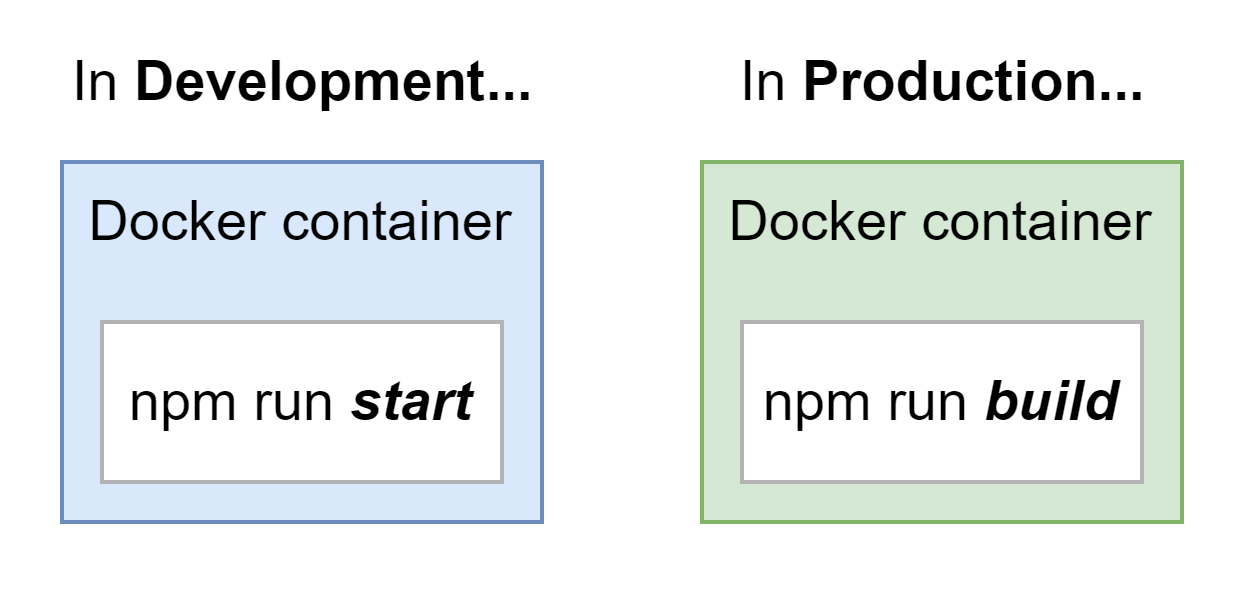
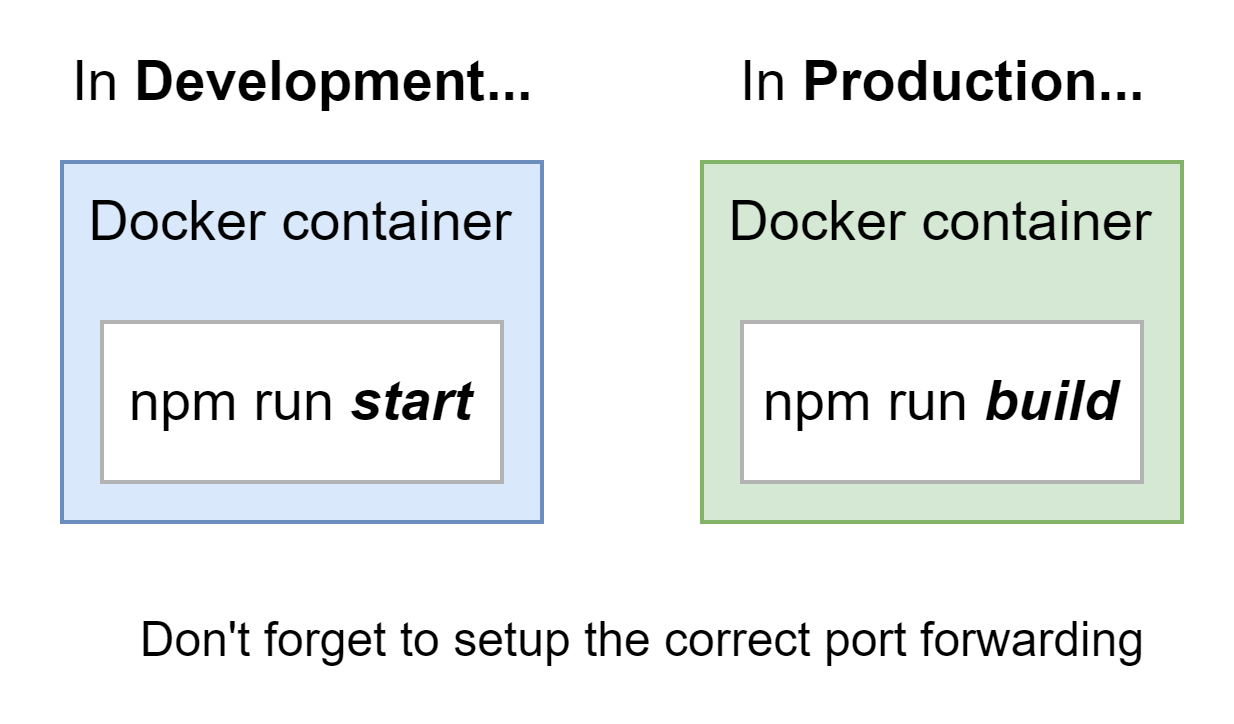
Docker volumes

diff --git a/docker/exercices/section_6/src/App.js b/docker/exercices/section_6/src/App.js
@@ -7,7 +7,8 @@ function App() {
       <header className="App-header">
         <img src={logo} className="App-logo" alt="logo" />
         <p>
-          Edit <code>src/App.js</code> and save to reload.
+          Edit <code>src/App.js</code> and save to reload.<br>
+          This is a small change</br>
         </p>
         <a
           className="App-link"
@@ -15,7 +16,7 @@ function App() {
           target="_blank"
           rel="noopener noreferrer"
         >
-          Learn React
+          Learn React           
         </a>
       </header>
     </div>

diff --git a/docker/3.Docker_workflow_and_volumes.md b/docker/3.Docker_workflow_and_volumes.md
@@ -90,18 +90,104 @@ Like _Spring_, you can create "profiles".
 * Production: `Dockerfile`
 
 
-### Dockerfile
+### Development with Dockerfile (no volumes, standalone container)
 
-Checkout the ["dockerfile.dev section_6"](./exercices/section_6/Dockerfile.dev)
+* Checkout the ["dockerfile.dev section_6"](./exercices/section_6/Dockerfile.dev)
+* Docker steps
 
+```bash
+# To build the DEV docker file: 
+docker build -t guihomediaz/section_6_frontend -f Dockerfile.dev .
 
-### Build
-
-To build the DEV docker file: 
-
+# run the application
+# (i) forward container port 3000 to local 4000
+docker run -it -p 4000:3000 guihomediaz/section_6_frontend
 ```
-docker build -t guihomediaz/
-```
+
+:fire::fire::fire: WARNING WARNING :fire::fire::fire:
+
+This implementation will NOT forward development changes inside the container!!!  
+* There is no volume attached
+* you must BUILD EVERY TIME to push your changes
+
+
+# Docker volumes
+
+## Definition
+
+A Docker _volume_ is a placeholder inside the docker container [~ Linux mount point]. 
+* From the container point of view: a _volume_ is a **_mapping_ from a mount point _inside_ the container** (ex: `/opt/app/resources`) **to a folder _outside_ the container** 
+* As an outsider, the _volume_ is a set of files that are shared with the container
+
+
+Volumes are very useful to:
+* separate configuration files
+* speed up application development
+* use share drives 
+
+## Impact on development speed
+
+Standard Docker flow, _everything_ is inside the container:
+
+!["development WITHOUT containers"](./images/30_container_without_volumes.png "development WITHOUT containers")
+
+
+Improved Docker flow, some files are _shared_ between workstation and container: 
+
+!["development WITH containers"](./images/31_container_with_volumes.png "development WITH containers")
+
+
+Development flow with Docker:
+
+| Without Docker volume  | With a volume  |
+|---|---|
+| Build image (#1) | Build image |
+| Start new container (#1) | Start new container
+| Do some code changes | Do some code changes |
+| | Changes are immediately available for testing |
+| Build new image (#2) | |
+| Stop existing container (#1)  | |
+| Docker run new container with latest image (#2) |
+| Test changes | | 
+
+
+> **Quick summary**
+> Docker volumes make development **faster** with containers, and **much easier** for newcomers. Changes are **immediately** pushed and available. They allow you to **separate configuration** into another folder with secret keys, properties files and so on..
+>
+> Don't use volumes if you want to choose _WHEN_ the code changes are published. 
+>    
+>
+> | Without Docker volume  | With a volume  |
+> |---|---|
+> | Code change are published upon request | Changes are immediately available |
+> |:fire: configuration is always shared and not externalized | Custom configuration (external files, secrets, etc.) |
+> | Best for testing and releases | Best for developers |
+
+
+## Usage with Docker run
+
+You can declare volume to `docker run` with argument `-v {localFilePath}:{containerPath}`. You can also add some exclusions `-v {containerPathToExcludeFromVolume}`
+
+:information_source: you can use a Linux command shortcut with `$(my_linux_command)`. 
+
+> On windows, the shortcut command depends on the tooling
+>  * PowerShell: `docker run -it -p 4000:3000 -v ${pwd}:/app IMAGE_ID`
+>  * GitBash: `docker run -it -p 4000:3000 -v "/$(PWD)":/app IMAGE_ID`
+
+!["docker run with volume"](./images/32_docker_run_with_volume.png "docker run with volume")
+
+!["docker run with volume and bookmark"](./images/33_docker_run_with_volume_and_bookmark.png "docker run with volume and bookmark")
+
+
+ex: 
+* Map workstation port 4000 -to-> 3000, **local** folder `/home/guillaume/dev/docker/section6` to **workstation** `/opt/app`, and use image _section_6_frontend_
+  ```docker run -p 4000:3000 -v /home/guillaume/dev/docker/section6:/opt/app guihomediaz/section_6_frontend``` 
+* Map workstation port 4000 -to-> 3000, **local** _current_ folder to **workstation** `/opt/app`, and use image _section_6_frontend_
+  ```docker run -p 4000:3000 -v $(pwd):/opt/app guihomediaz/section_6_frontend``` 
+* Map workstation port 4000 -to-> 3000, **local** _current_ folder to **workstation** `/opt/app`, and use image _section_6_frontend_ + use a particular container's folder as well
+  ```docker run -p 4000:3000 -v /opt/app/node_modules -v $(pwd):/opt/app guihomediaz/section_6_frontend``` 
+
+
 
 
 

diff --git a/docker/1.Docker_core_concepts.md b/docker/1.Docker_core_concepts.md
@@ -180,10 +180,12 @@ This command will spawn a new *container* for a particular *image*. `docker run`
 
 Arguments:
 * Use `-it` to forward input to the container (keyboard & mouse)
-* Use the `-p` argument to forward incoming request _FROM_ local workstation's port number _TO_ a container's port.
-* use `d` to execute the container in background. 
+* Use the `-p {workstationPort}:{containerPort}` argument to forward incoming request _FROM_ local workstation's port number _TO_ a container's port.
+* use `-d` to execute the container in background. 
+* use `-v {localFilePath}:{containerPath}` to work with volumes. See dedicated section later on
 
 ![docker run port mapping](images/16_docker_port_mapping_run_argument.png "docker run port mapping")
+
 
 
 ### Examples
@@ -206,6 +208,13 @@ To showcase the `docker run` command, we rely on ***[BusyBox](https://hub.docker
    ```docker run -it -p 5000:8080 node:17-alpine sh```
 * Start container in background.
    ```docker run -p 6379:6379 -d redis```
+* Start container with port mapping (local 4000 to remote 3000) and volume (local _/home/guillaume/dev/myapp_ to remote _/opt/app_)
+  ```docker run -it -p 4000:3000 -v /home/guillaume/dev/myapp:/opt/app guihomediaz/testapp```
+* Start container with port mapping (local 4000 to remote 3000) and volume (local command path to remote _/opt/app_)
+  ```docker run -it -p 4000:3000 -v $(pwd):/opt/app guihomediaz/testapp```
+
+
+:fire: When working on MS Windows, it is best to work with **wsl**, **gitBash** or **powershell**.
 
 
 ## Docker create
@@ -584,6 +593,7 @@ To add specific files inside the image, such as application's files | images | e
 :fire::fire: !! port forwarding is strictly a **runtime constraint** !!
 > Port forwarding is set with `docker run` command, not in the `Dockerfile`!!
 
+
 ---
 
 # Docker in action: simple web-application example
@@ -618,7 +628,7 @@ Create a simple NodeJS application to demonstrate how to encapsulate a real appl
   * CMD
     * Application start: `npm start`
 2. `docker build` : the new image shall have a tag that follows the convention: `dockerID/appName` (ex: _guihomediaz/simplewebapp_)
-3. `docker run` : when you create the container, don't forget to forward a local port to container's `8080` with the `-p` argument
+3. `docker run` : when you create the container, don't forget to forward a local port to container's `8080` with the `-p {localPort}:{remotePort}` argument
 
 
 ## Execution steps

diff --git a/docker/Readme.md b/docker/Readme.md
@@ -33,9 +33,10 @@ This section covers:
 * Docker in action: multiple containers application
 
 
-## [Use Docker to develop, build and deploy a real applicaton](3.Docker_workflow.md)
+## [Use Docker to develop, build and deploy a real applicaton with Docker volumes](3.3.Docker_workflow_and_volumes.md)
 
 This section explains HOW to use Docker to speed up development, build and deployment of a real application. 
 * Docker as a _development_ tool
 * Docker as a _build_ tool to validate tests
 * Docker as a _deployment_ tool to encapsulate a particular _production_ version of the applicaton
+* Use **Docker volumes** to access workstation's files from the container
